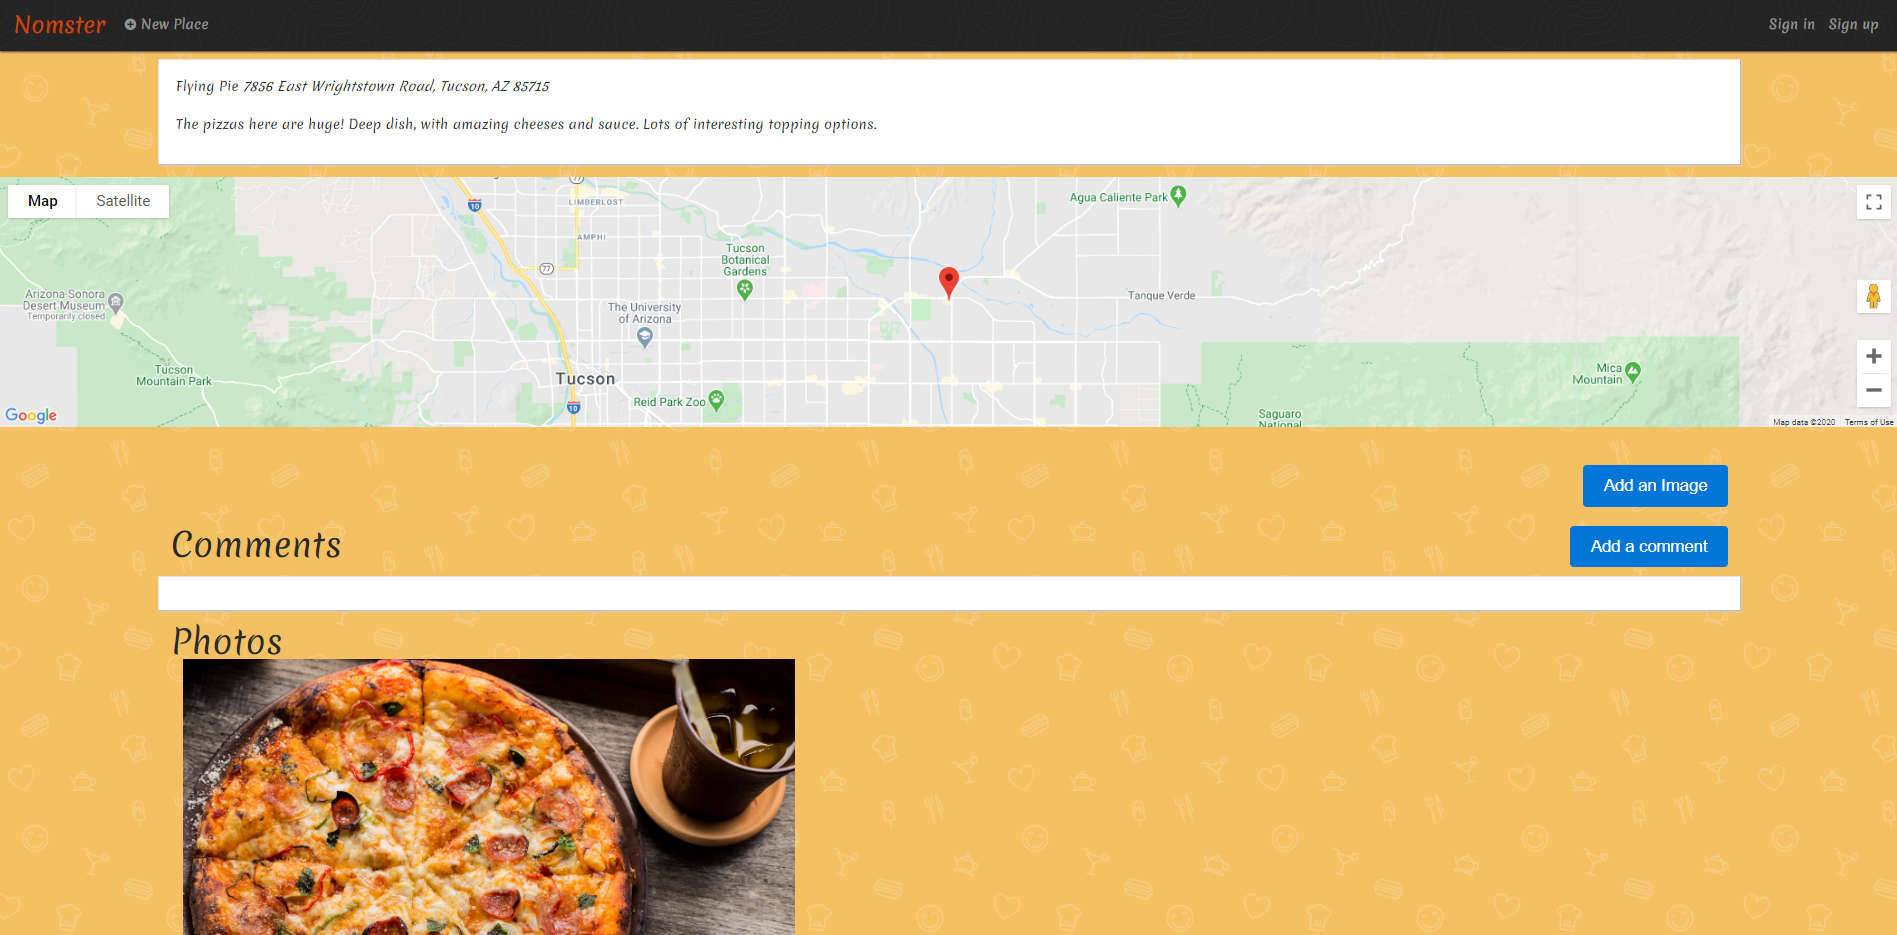
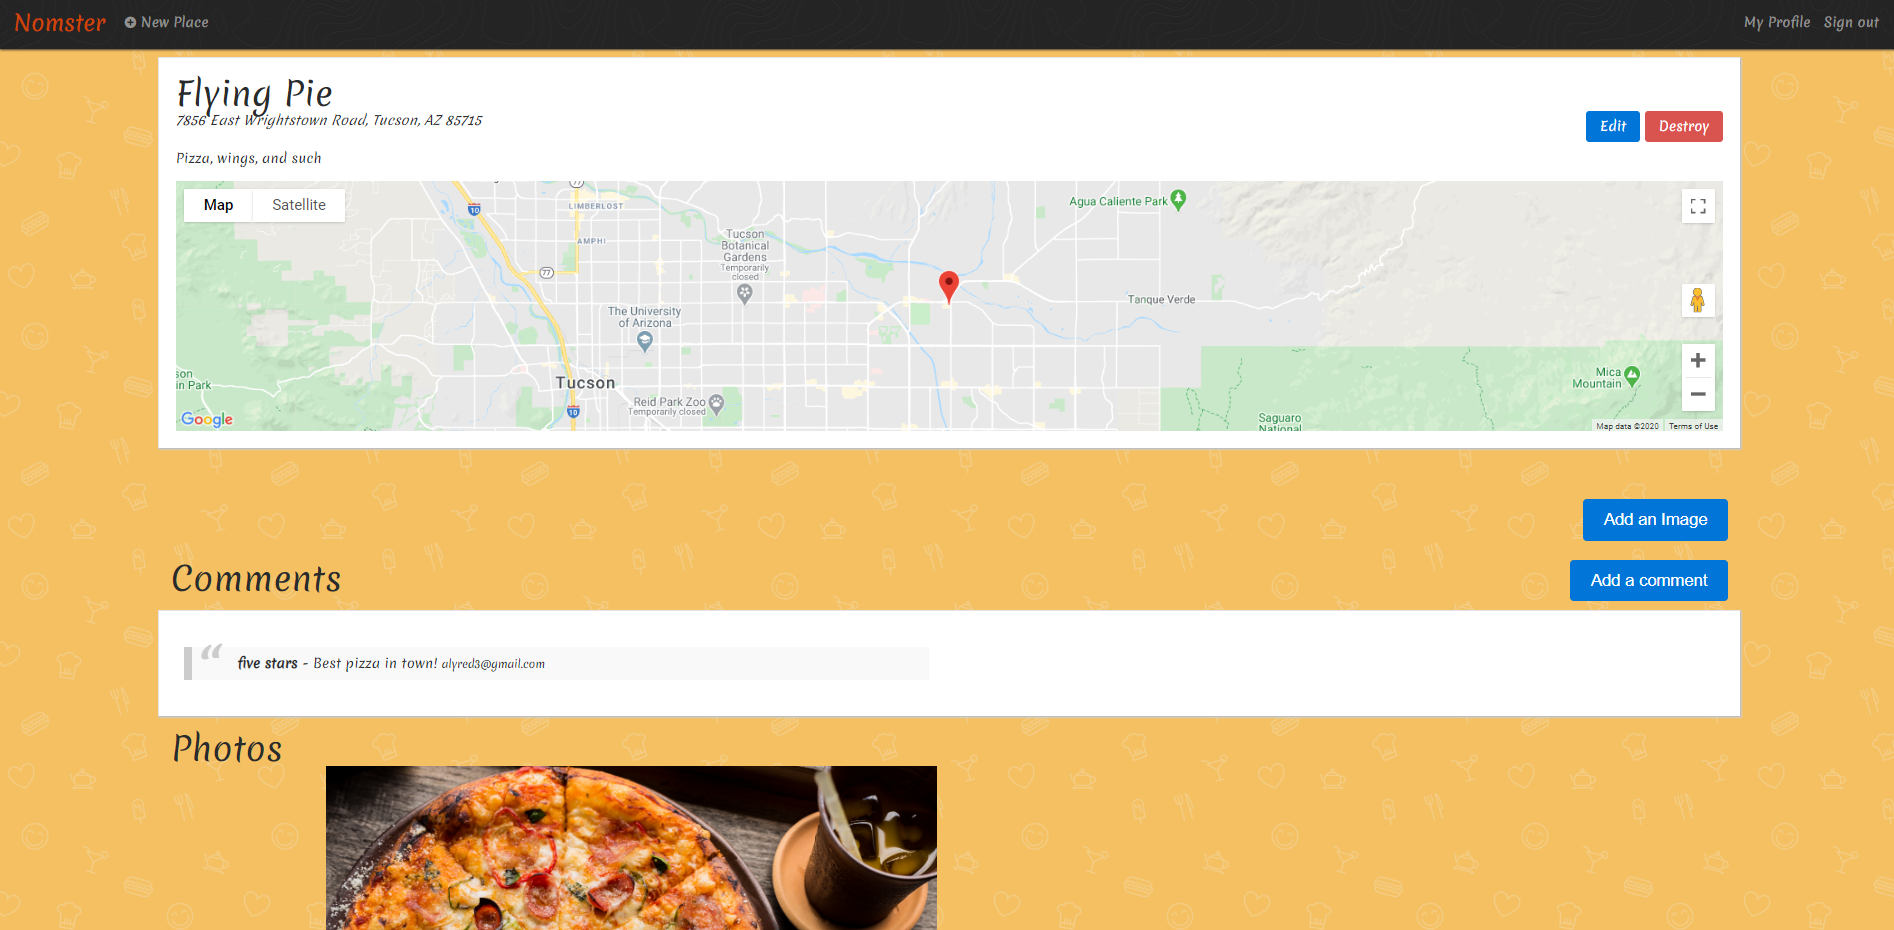
Updated README

diff --git a/README.md b/README.md
@@ -4,17 +4,15 @@ A Yelp clone that integrates with the Google API and includes features such as u
 
 [View the deployed application](https://nomster-alyssa-redman.herokuapp.com/)
 
-__
+______
 
 ### Features
 
 * Ruby 2.5.3
 
-* jQuery
+* jQuery, Bootstrap, CSS
 
 * PostgresSQL
-
-* TwitterBootstrap3 for CSS
 
 * Devise for user authentication
 
@@ -26,9 +24,13 @@ __
 
 * Will Paginate gem for page pagination
 
-__
+### How to use
+
+Guests can view local restuarant's reviews, ratings, and maps. Users can add new restaurants, upload images, leave reviews, and give ratings. A user can view their places and comments on their user profile, where they can navigate to pages to delete or edit.  
+____
 
 ### Screenshots
 ![Screenshot](app/assets/images/landing.png)
 ![Screenshot](app/assets/images/place.png)
 ![Screenshot](app/assets/images/placesubmission.png)
+![Screenshot](app/assets/images/profile.png)
